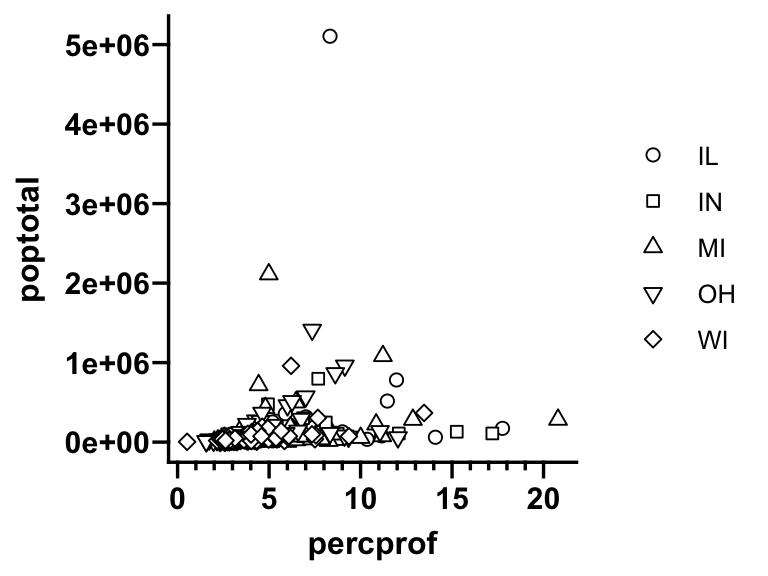
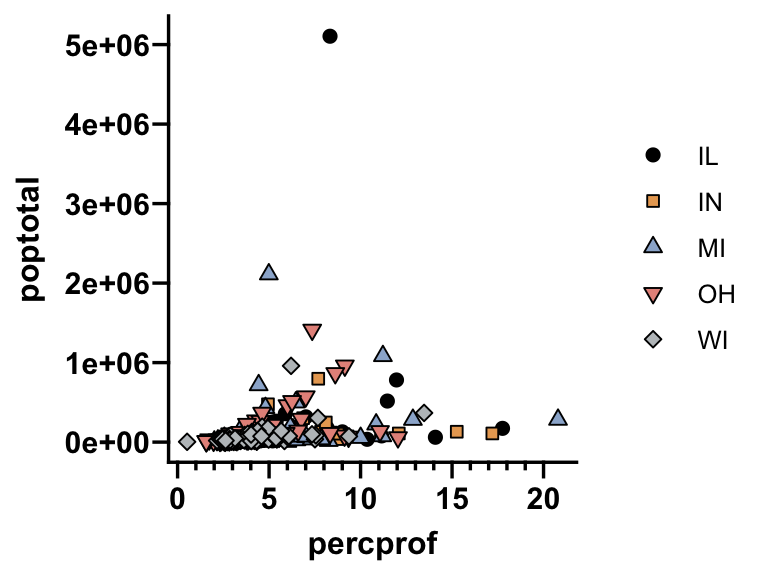
Change README fill palette

diff --git a/README.md b/README.md
@@ -39,7 +39,7 @@ p
 ### `scale_fill_prism`
 
 ``` r
-p <- p + scale_fill_prism("neon")
+p <- p + scale_fill_prism("pearl")
 p
 ```
 
